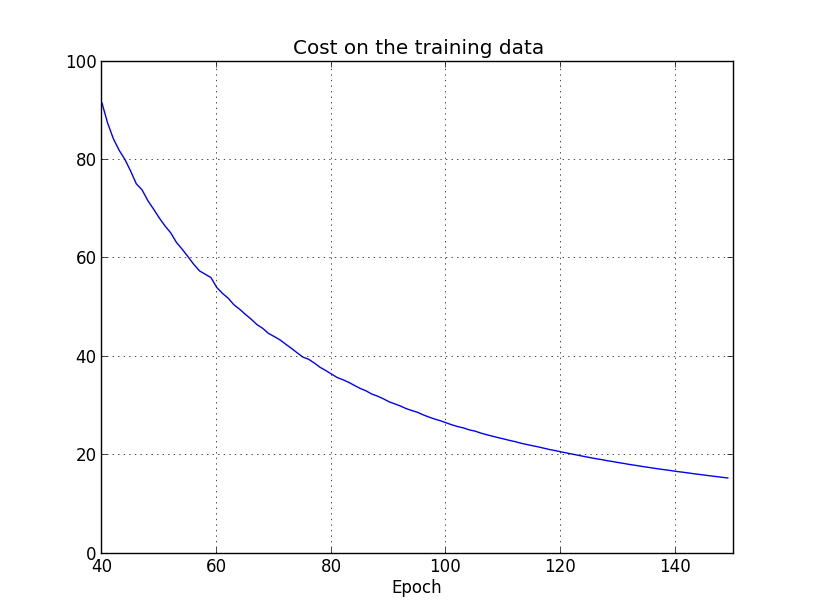
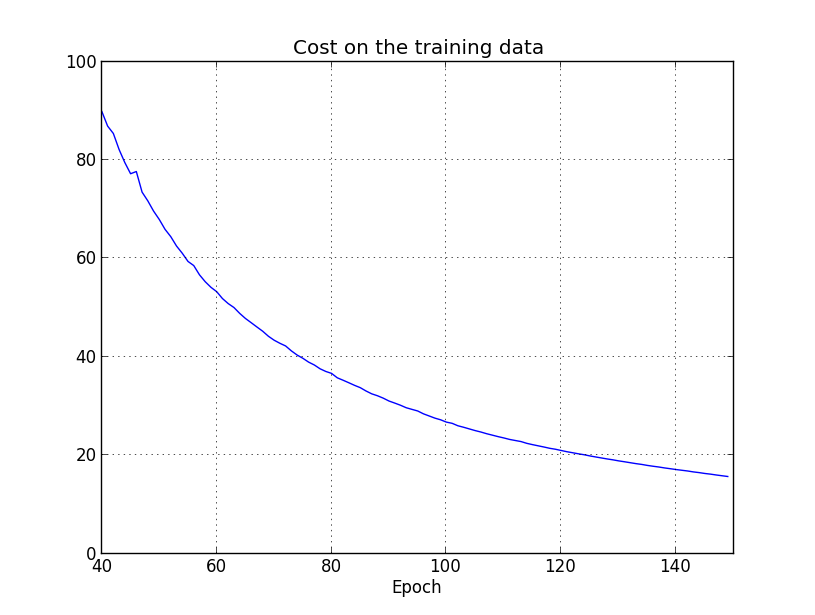
Tweaking of the overfitting

diff --git a/fig/overfitting.py b/fig/overfitting.py
@@ -29,13 +29,11 @@ evaluation_cost, evaluation_accuracy, training_cost, training_accuracy = \
             monitor_training_accuracy=True)
 
 # Do the plots
-epochs = np.arange(40, 150, 1)
 
 #Plot the training cost data
 fig = plt.figure()
 ax = fig.add_subplot(111)
-ax.plot(epochs, training_cost[40:150])
-ax.set_ylim([0, 100])
+ax.plot(np.arange(40, 150, 1), training_cost[40:150])
 ax.set_xlim([40, 150])
 ax.grid(True)
 ax.set_xlabel('Epoch')
@@ -45,7 +43,8 @@ plt.show()
 # Plot the test accuracy data
 fig = plt.figure()
 ax = fig.add_subplot(111)
-ax.plot(epochs, [accuracy/100.0 for accuracy in evaluation_accuracy[40:150]])
+ax.plot(np.arange(40, 150, 1), 
+        [accuracy/100.0 for accuracy in evaluation_accuracy[40:150]])
 ax.set_xlim([40, 150])
 ax.grid(True)
 ax.set_xlabel('Epoch')
@@ -55,19 +54,19 @@ plt.show()
 #Plot the test cost data
 fig = plt.figure()
 ax = fig.add_subplot(111)
-ax.plot(epochs, evaluation_cost[40:150])
+ax.plot(np.arange(40, 150, 1), evaluation_cost[40:150])
 ax.set_xlim([40, 150])
 ax.grid(True)
 ax.set_xlabel('Epoch')
-ax.set_title('Cost on the training data')
+ax.set_title('Cost on the test data')
 plt.show()
 
 # Plot the training accuracy data
 fig = plt.figure()
 ax = fig.add_subplot(111)
-ax.plot(epochs, [accuracy/100.0 for accuracy in training_accuracy[40:150]])
-ax.set_xlim([40, 150])
+ax.plot(np.arange(0, 150, 1), [accuracy/100.0 for accuracy in training_accuracy[40:150]])
+ax.set_xlim([0, 150])
 ax.grid(True)
 ax.set_xlabel('Epoch')
-ax.set_title('Accuracy (%) on the test data')
+ax.set_title('Accuracy (%) on the training data')
 plt.show()
